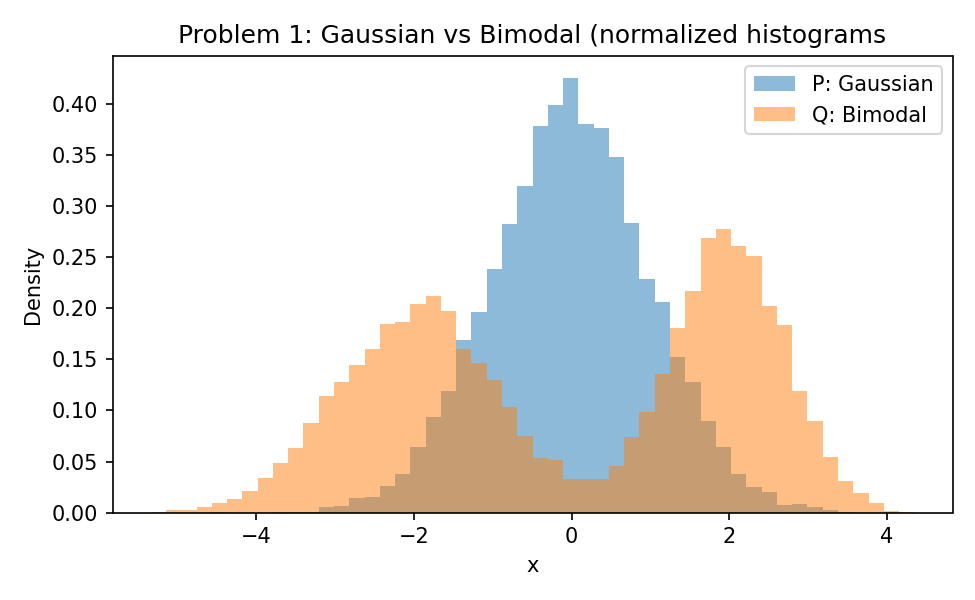
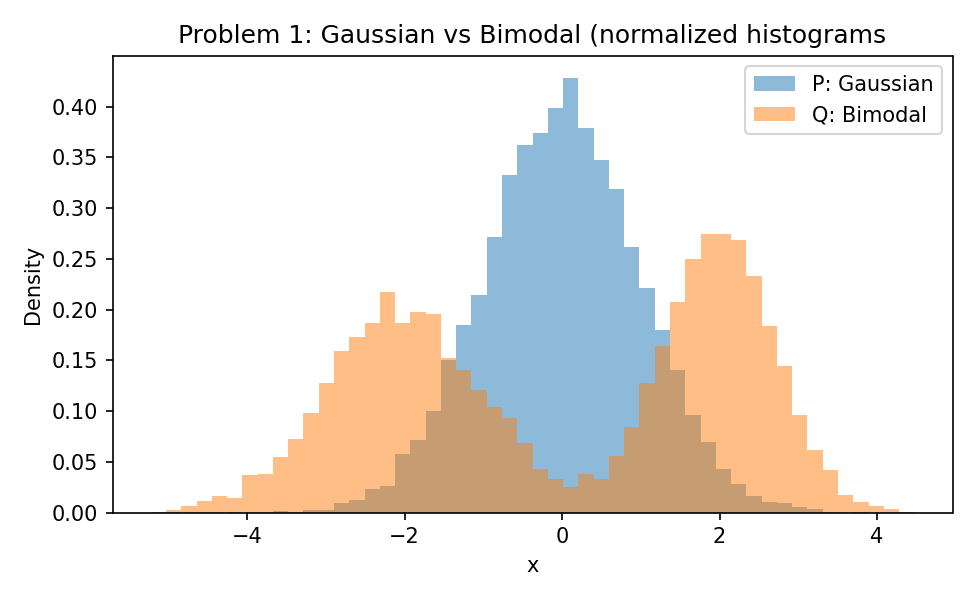
Refactor homework 1 code structure and improve function definitions; update output figures for Problems 1 and 4

diff --git a/homeworks/homework1/Cagdas_Guven_Homework1.py b/homeworks/homework1/Cagdas_Guven_Homework1.py
@@ -37,15 +37,18 @@ def _():
     import matplotlib.pyplot as plt
     from scipy.stats import wasserstein_distance
     from pathlib import Path
+    import marimo as mo
     SEED = 42
     DEFAULT_SMOOTH = 1e-8 # additive smoothing for histogram counts
     RNG = np.random.default_rng(SEED)
     outdir = Path("outputs")
     outdir.mkdir(exist_ok=True)
+
     return (
         DEFAULT_SMOOTH,
         RNG,
         SEED,
+        mo,
         np,
         os,
         outdir,
@@ -58,17 +61,20 @@ def _():
 @app.cell
 def _(RNG, np):
     # ---- Generators ----
-    def make_gaussian(n: int, mean=0.0, std=1.0, rng=RNG) -> np.ndarray:
-        return rng.normal(mean, std, size=n)
 
-    def make_bimodal(n: int, mean1=-2.0, std1=1.0, mean2=2.0, std2=0.7, p=0.5, rng=RNG) -> np.ndarray:
-        k = rng.binomial(1, _p, size=n)
+    def make_gaussian(n: int, mean = 0.0, std= 1.0, rng=RNG) -> np.ndarray:
+        return rng.normal(mean,std,size=n)
+
+    def make_bimodal(n: int, mean1 = -2.0, std1= 1.0, mean2=2.0, std2=0.7, p=0.5, rng=RNG) -> np.ndarray:
+        k= rng.binomial(1, p, size=n)
         x = rng.normal(mean1, std1, size=n)
-        y = rng.normal(mean2, std2, size=n)
-        return np.where(k == 1, x, y)
+        y= rng.normal(mean2, std2, size=n)
+        return np.where(k==1, x, y)
 
     def make_student_t(n: int, df=3, loc=0.0, scale=1.0, rng=RNG) -> np.ndarray:
         return loc + scale * rng.standard_t(df, size=n)
+
+
     return make_bimodal, make_gaussian
 
 
@@ -79,103 +85,119 @@ def _(DEFAULT_SMOOTH, RNG, make_gaussian, np, pd):
         lo = min(np.percentile(x, lo_pct), np.percentile(y, lo_pct))
         hi = max(np.percentile(x, hi_pct), np.percentile(y, hi_pct))
         span = hi - lo
-        return (lo - 0.05 * span, hi + 0.05 * span)
+        return lo - 0.05 * span, hi + 0.05 * span
 
-    def histogram_pmf(x: np.ndarray, bins: int, range_, smoothing: float=DEFAULT_SMOOTH):
-        counts, _edges = np.histogram(x, bins=bins, range=range_)
+    def histogram_pmf(x: np.ndarray, bins: int , range_, smoothing: float = DEFAULT_SMOOTH):
+        counts, edges = np.histogram(x, bins=bins, range=range_)
         counts = counts.astype(float) + smoothing
-        pmf = counts / counts.sum()
-        return (pmf, _edges)
+        pmf = counts/ counts.sum()
+        return pmf, edges
 
-    def kl_divergence(p: np.ndarray, q: np.ndarray) -> float:
+    def kl_divergence(p: np.ndarray, q: np.ndarray)-> float:
         eps = 1e-15
-        _p = np.clip(_p, eps, 1)
-        _q = np.clip(_q, eps, 1)
-        return float(np.sum(_p * (np.log(_p) - np.log(_q))))
+        p = np.clip(p, eps, 1)
+        q = np.clip(q, eps, 1)
+        return float(np.sum(p*(np.log(p)-np.log(q))))
 
     def js_divergence(p: np.ndarray, q: np.ndarray) -> float:
         eps = 1e-15
-        _p = np.clip(_p, eps, 1)
-        _q = np.clip(_q, eps, 1)
-        m = 0.5 * (_p + _q)
-        kl_pm = np.sum(_p * (np.log(_p) - np.log(m)))
-        kl_qm = np.sum(_q * (np.log(_q) - np.log(m)))
+        p = np.clip(p, eps, 1)
+        q = np.clip(q, eps, 1)
+        m = 0.5 * (p + q)
+        kl_pm = np.sum(p * (np.log(p) - np.log(m)))
+        kl_qm = np.sum(q * (np.log(q) - np.log(m)))
         return float(0.5 * (kl_pm + kl_qm))
 
     def w1_from_hist(p: np.ndarray, q: np.ndarray, edges: np.ndarray) -> float:
-        cdf_p = np.cumsum(_p)
-        cdf_q = np.cumsum(_q)
-        widths = np.diff(_edges)
+        cdf_p = np.cumsum(p)
+        cdf_q = np.cumsum(q)
+        widths = np.diff(edges)
         diff = np.abs(cdf_p - cdf_q)
         return float(np.sum(diff * widths))
 
-    def metrics_table_for_bins(P: np.ndarray, Q: np.ndarray, bin_counts, smoothing: float, range_):
-        _rows = []
+    def metrics_table_for_bins(P:np.ndarray, Q:np.ndarray, bin_counts, smoothing: float, range_):
+        rows = []
         for b in bin_counts:
-            _p, _edges = histogram_pmf(P, bins=b, range_=range_, smoothing=smoothing)
-            _q, _ = histogram_pmf(Q, bins=b, range_=range_, smoothing=smoothing)
-            _rows.append(dict(bins=b, KL_PQ=kl_divergence(_p, _q), KL_QP=kl_divergence(_q, _p), JS=js_divergence(_p, _q), W1=w1_from_hist(_p, _q, _edges)))
-        return pd.DataFrame(_rows)
+            p, edges = histogram_pmf(P, bins=b, range_=range_, smoothing=smoothing)
+            q, _ = histogram_pmf(Q, bins=b, range_=range_, smoothing=smoothing)
+            rows.append(dict(
+                        bins=b,
+                        KL_PQ=kl_divergence(p, q),
+                        KL_QP=kl_divergence(q, p),
+                        JS=js_divergence(p, q),
+                        W1=w1_from_hist(p, q, edges),
+            ))
+        return pd.DataFrame(rows)
 
-    def make_disagreement_pairs(n=10000):
-        base = make_gaussian(n, 0.0, 1.0)
-        k = RNG.binomial(1, 0.05, size=n)
+    def make_disagreement_pairs(n=10_000):
+        # (i) W1 large, JS small: small mass far away (large shift cost, small overlap change)
+        base = make_gaussian(n,0.0,1.0)
+        k= RNG.binomial(1, 0.05, size=n) # 5% mass far
         tail = RNG.normal(25.0, 0.5, size=n)
-        Q_far = np.where(k == 1, tail, base)
+        Q_far = np.where(k==1, tail, base)
         pair_i = (base, Q_far, 'Same Gaussian + 5% far tail')
+
+        # (ii) JS large, W1 moderate: interleaved supports (even vs odd bins)
         B = 100
-        _edges = np.linspace(0.0, 1.0, B + 1)  # (i) W1 large, JS small: small mass far away (large shift cost, small overlap change)
-        centers = 0.5 * (_edges[:-1] + _edges[1:])
-        even_mask = np.arange(B) % 2 == 0  # 5% mass far
+        edges = np.linspace(0.0,1.0,B+1)
+        centers= 0.5 * (edges[:-1] + edges[1:])
+        even_mask = np.arange(B) % 2 == 0
         odds_mask = ~even_mask
         n_even = even_mask.sum()
         n_odd = odds_mask.sum()
-        P_centers = np.repeat(centers[even_mask], repeats=n // n_even + 1)[:n]
-        Q_centers = np.repeat(centers[odds_mask], repeats=n // n_odd + 1)[:n]  # (ii) JS large, W1 moderate: interleaved supports (even vs odd bins)
-        jitter = 0.25 * (_edges[1] - _edges[0])
+        P_centers = np.repeat(centers[even_mask], repeats=n//n_even +1)[:n]
+        Q_centers = np.repeat(centers[odds_mask], repeats=n//n_odd +1)[:n]
+        jitter = 0.25 * (edges[1] - edges[0])
         P = P_centers + RNG.normal(0, jitter, size=n)
         Q = Q_centers + RNG.normal(0, jitter, size=n)
         pair_ii = (P, Q, 'Interleaved supports (even vs odd bins)')
-        return {'W1-large_JS-small': pair_i, 'JS-large_W1-moderate': pair_ii}
+
+        return {
+            'W1-large_JS-small': pair_i,
+            'JS-large_W1-moderate': pair_ii,
+        }
+
+
+
+
     return (
         common_range,
         histogram_pmf,
         js_divergence,
         kl_divergence,
         make_disagreement_pairs,
-        metrics_table_for_bins,
         w1_from_hist,
     )
 
 
 @app.cell
 def _(DEFAULT_SMOOTH, histogram_pmf, np, plt, w1_from_hist):
-    def plot_cdfs(P: np.ndarray, Q: np.ndarray, bins: int, range_, title: str, outpath: str, smoothing: float=DEFAULT_SMOOTH):
-        _p, _edges = histogram_pmf(P, bins=bins, range_=range_, smoothing=smoothing)
-        _q, _ = histogram_pmf(Q, bins=bins, range_=range_, smoothing=smoothing)
-        cdf_p = np.concatenate([[0.0], np.cumsum(_p)])
-        cdf_q = np.concatenate([[0.0], np.cumsum(_q)])
-        x = _edges
-        abs_diff = np.abs(cdf_p - cdf_q)
-        w1 = w1_from_hist(_p, _q, _edges)
-        plt.figure(figsize=(7.5, 4.5))
-        plt.subplot(1, 2, 1)
-        plt.step(x, cdf_p, where='post', label='F_P')
-        plt.step(x, cdf_q, where='post', label='F_Q')
-        plt.title(f'{title}\nEmpirical CDFs')
-        plt.xlabel('x')
-        plt.ylabel('F(x)')
-        plt.legend()
-        plt.subplot(1, 2, 2)
-        plt.step(x, abs_diff, where='post', color='tab:red')
-        plt.title(f'|F_P - F_Q|, approx W1 = {w1:.4f}')
-        plt.xlabel('x')
-        plt.ylabel('|ΔCDF|')
-        plt.tight_layout()
-        plt.savefig(outpath, dpi=150)
-        plt.show()
-        plt.close()
-        return w1
+    def plot_cdfs(P: np.ndarray, Q: np.ndarray, bins: int, range_, title: str, outpath: str, smoothing: float = DEFAULT_SMOOTH):
+            p, edges = histogram_pmf(P, bins=bins, range_=range_, smoothing=smoothing)
+            q, _ = histogram_pmf(Q, bins=bins, range_=range_, smoothing=smoothing)
+            cdf_p = np.concatenate([[0.0], np.cumsum(p)])
+            cdf_q = np.concatenate([[0.0], np.cumsum(q)])
+            x = edges
+            abs_diff = np.abs(cdf_p - cdf_q)
+            w1 = w1_from_hist(p, q, edges)
+
+            plt.figure(figsize=(7.5, 4.5))
+            plt.subplot(1, 2, 1)
+            plt.step(x, cdf_p, where='post', label='F_P')
+            plt.step(x, cdf_q, where='post', label='F_Q')
+            plt.title(f'{title}\nEmpirical CDFs')
+            plt.xlabel('x'); plt.ylabel('F(x)'); plt.legend()
+
+            plt.subplot(1, 2, 2)
+            plt.step(x, abs_diff, where='post', color='tab:red')
+            plt.title(f'|F_P - F_Q|, approx W1 = {w1:.4f}')
+            plt.xlabel('x'); plt.ylabel('|ΔCDF|')
+            plt.tight_layout()
+            plt.savefig(outpath, dpi=150)
+            plt.show()
+            plt.close()
+            return w1
+
     return (plot_cdfs,)
 
 
@@ -229,15 +251,18 @@ def _(mo):
     return
 
 
-@app.cell
-def _(DEFAULT_SMOOTH, P1, Q1, display, metrics_table_for_bins, outdir, r1):
+app._unparsable_cell(
+    r"""
     bin_counts = [20, 50, 100]
     smoothing = DEFAULT_SMOOTH
     df_p2 = metrics_table_for_bins(P1, Q1, bin_counts, smoothing, range_=r1)
-    display(df_p2)
+    mo.display(df_p2)
+    mo.
     df_p2.to_csv(outdir / 'p2_metrics.csv', index=False)
     print(f'smoothing used: {smoothing}')
-    return
+    """,
+    name="_"
+)
 
 
 @app.cell(hide_code=True)
@@ -390,4 +415,3 @@ def _():
 
 if __name__ == "__main__":
     app.run()
-
